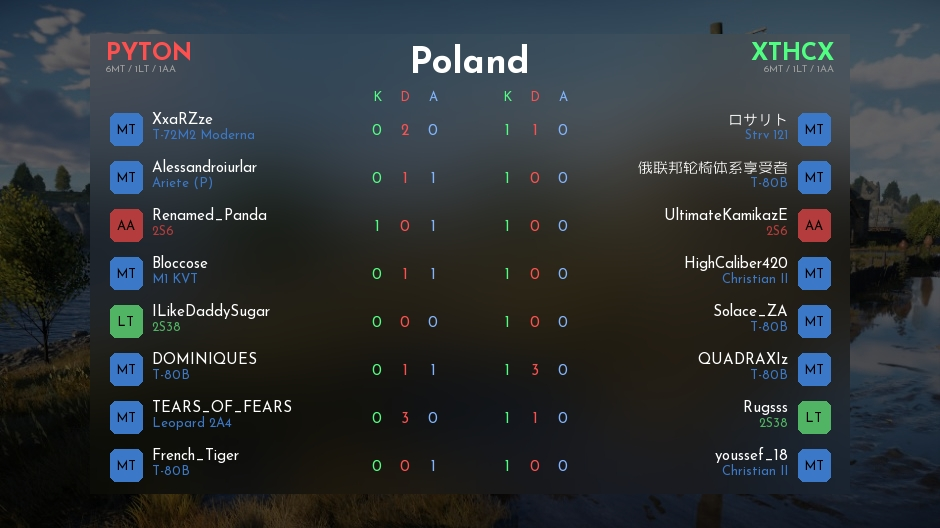
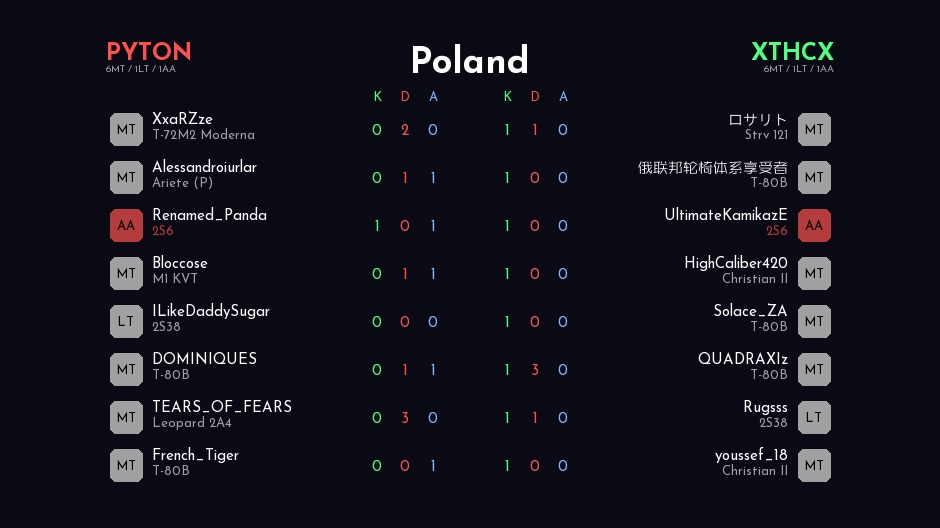
Ajout des changements

diff --git a/utils/renderer_log.py b/utils/renderer_log.py
@@ -26,9 +26,7 @@ from dotenv import load_dotenv
 load_dotenv()
 
 # ── Chemins et Configuration Globale ──────────────────────────────────────
-BASE_DIR = Path(__file__).parent
 DB_IMAGES_MAPS = os.getenv("DATABASE_IMAGES_MAPS", "images/maps")
-
 IMAGE_DIR = os.path.abspath(DB_IMAGES_MAPS)
 
 # ── Types de Véhicules (SQB) ───────────────────────────────────────────────
@@ -45,16 +43,18 @@ TYPE_COLORS: Dict[str, Tuple[int, int, int]] = {
 TYPE_ORDER = ["MT", "LT", "AA", "HT", "TT", "SPG", "FV", "HELI", "PLANE", "SUB", "SHIP"]
 
 # ── Polices ───────────────────────────────────────────────────────────────
+FONT_DIR = Path("utils") / "fonts"
+
 _FONT_PATHS_BOLD = [
-    str(BASE_DIR / "fonts" / "JosefinSans-Bold.ttf")
+    str(FONT_DIR / "JosefinSans-Bold.ttf")
 ]
 
-_FONT_PATHS_REG = [p.replace("Bold", "").replace("-Bold", "") for p in _FONT_PATHS_BOLD] + [
-    str(BASE_DIR / "fonts" / "JosefinSans-Regular.ttf")
+_FONT_PATHS_REG = [
+    str(FONT_DIR / "JosefinSans-Regular.ttf")
 ]
 
 _FONT_PATHS_CN = [
-    str(BASE_DIR / "fonts" / "RuiZiRuiXianQiaoPiJian1-0-1.ttf")
+    str(FONT_DIR / "RuiZiRuiXianQiaoPiJian1-0-1.ttf")
 ]
 
 # ── Dimensions Canvas et Scoreboard (CORRIGÉ) ─────────────────────────────
